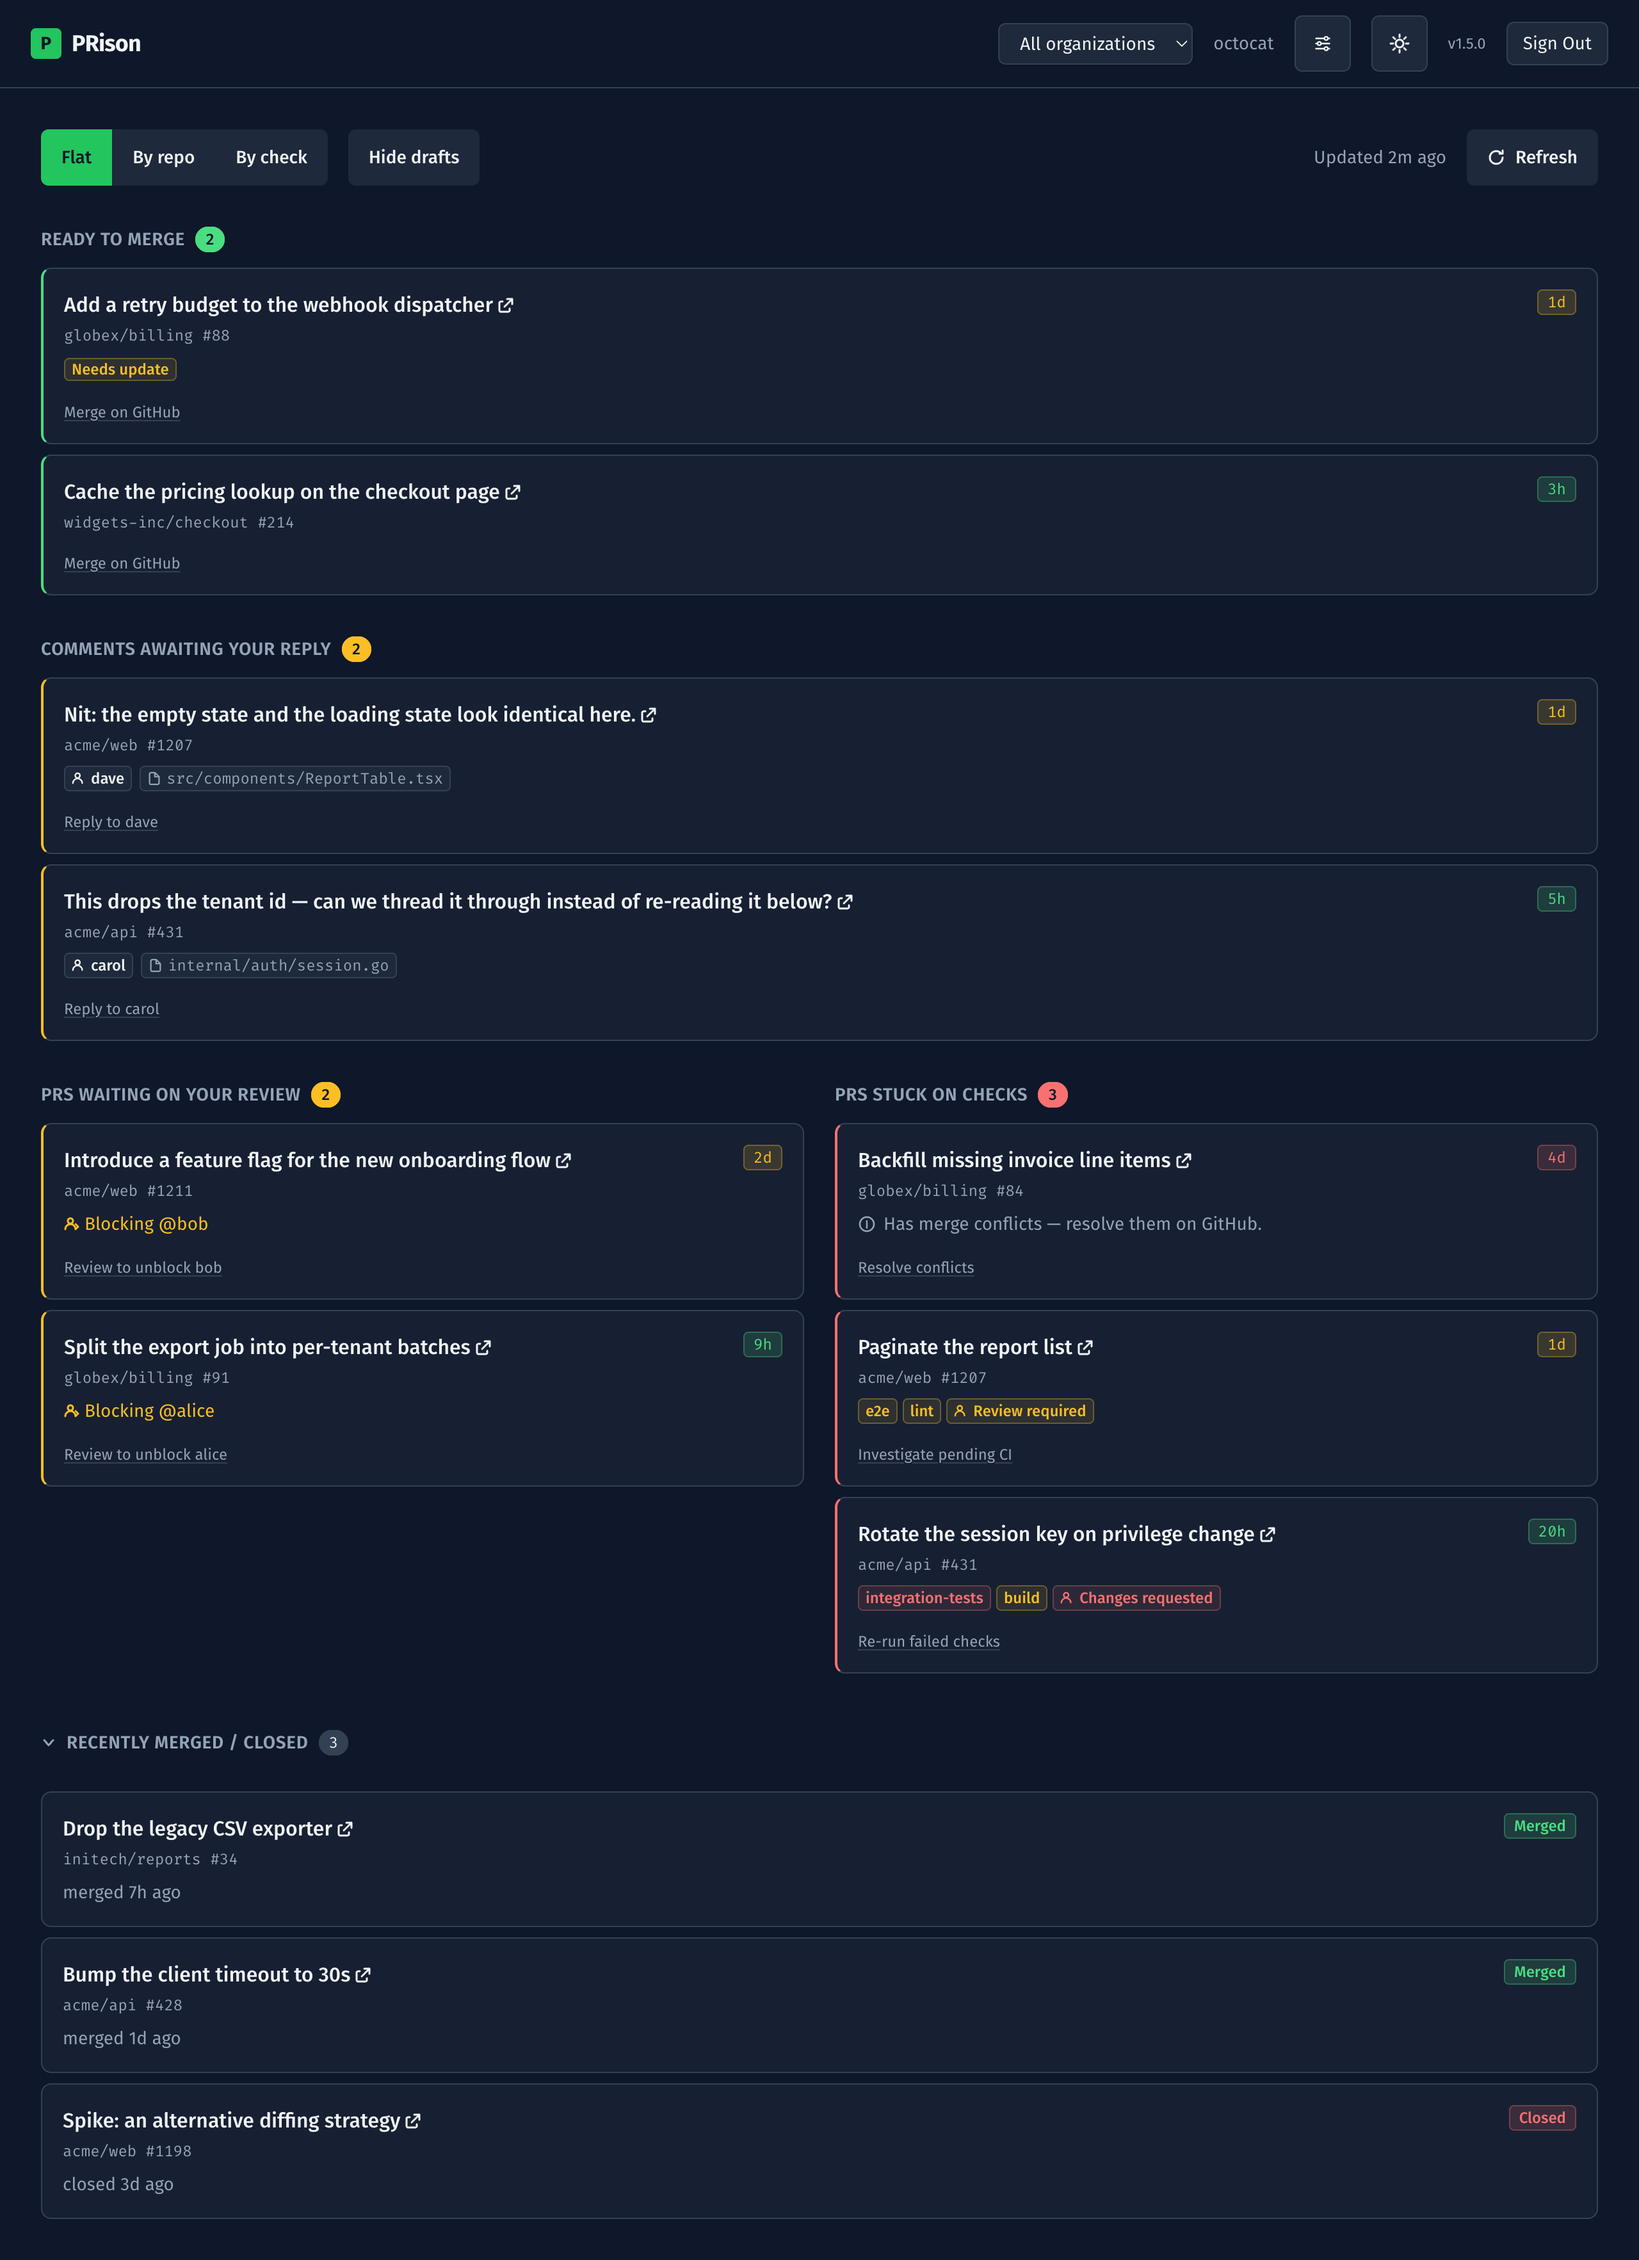
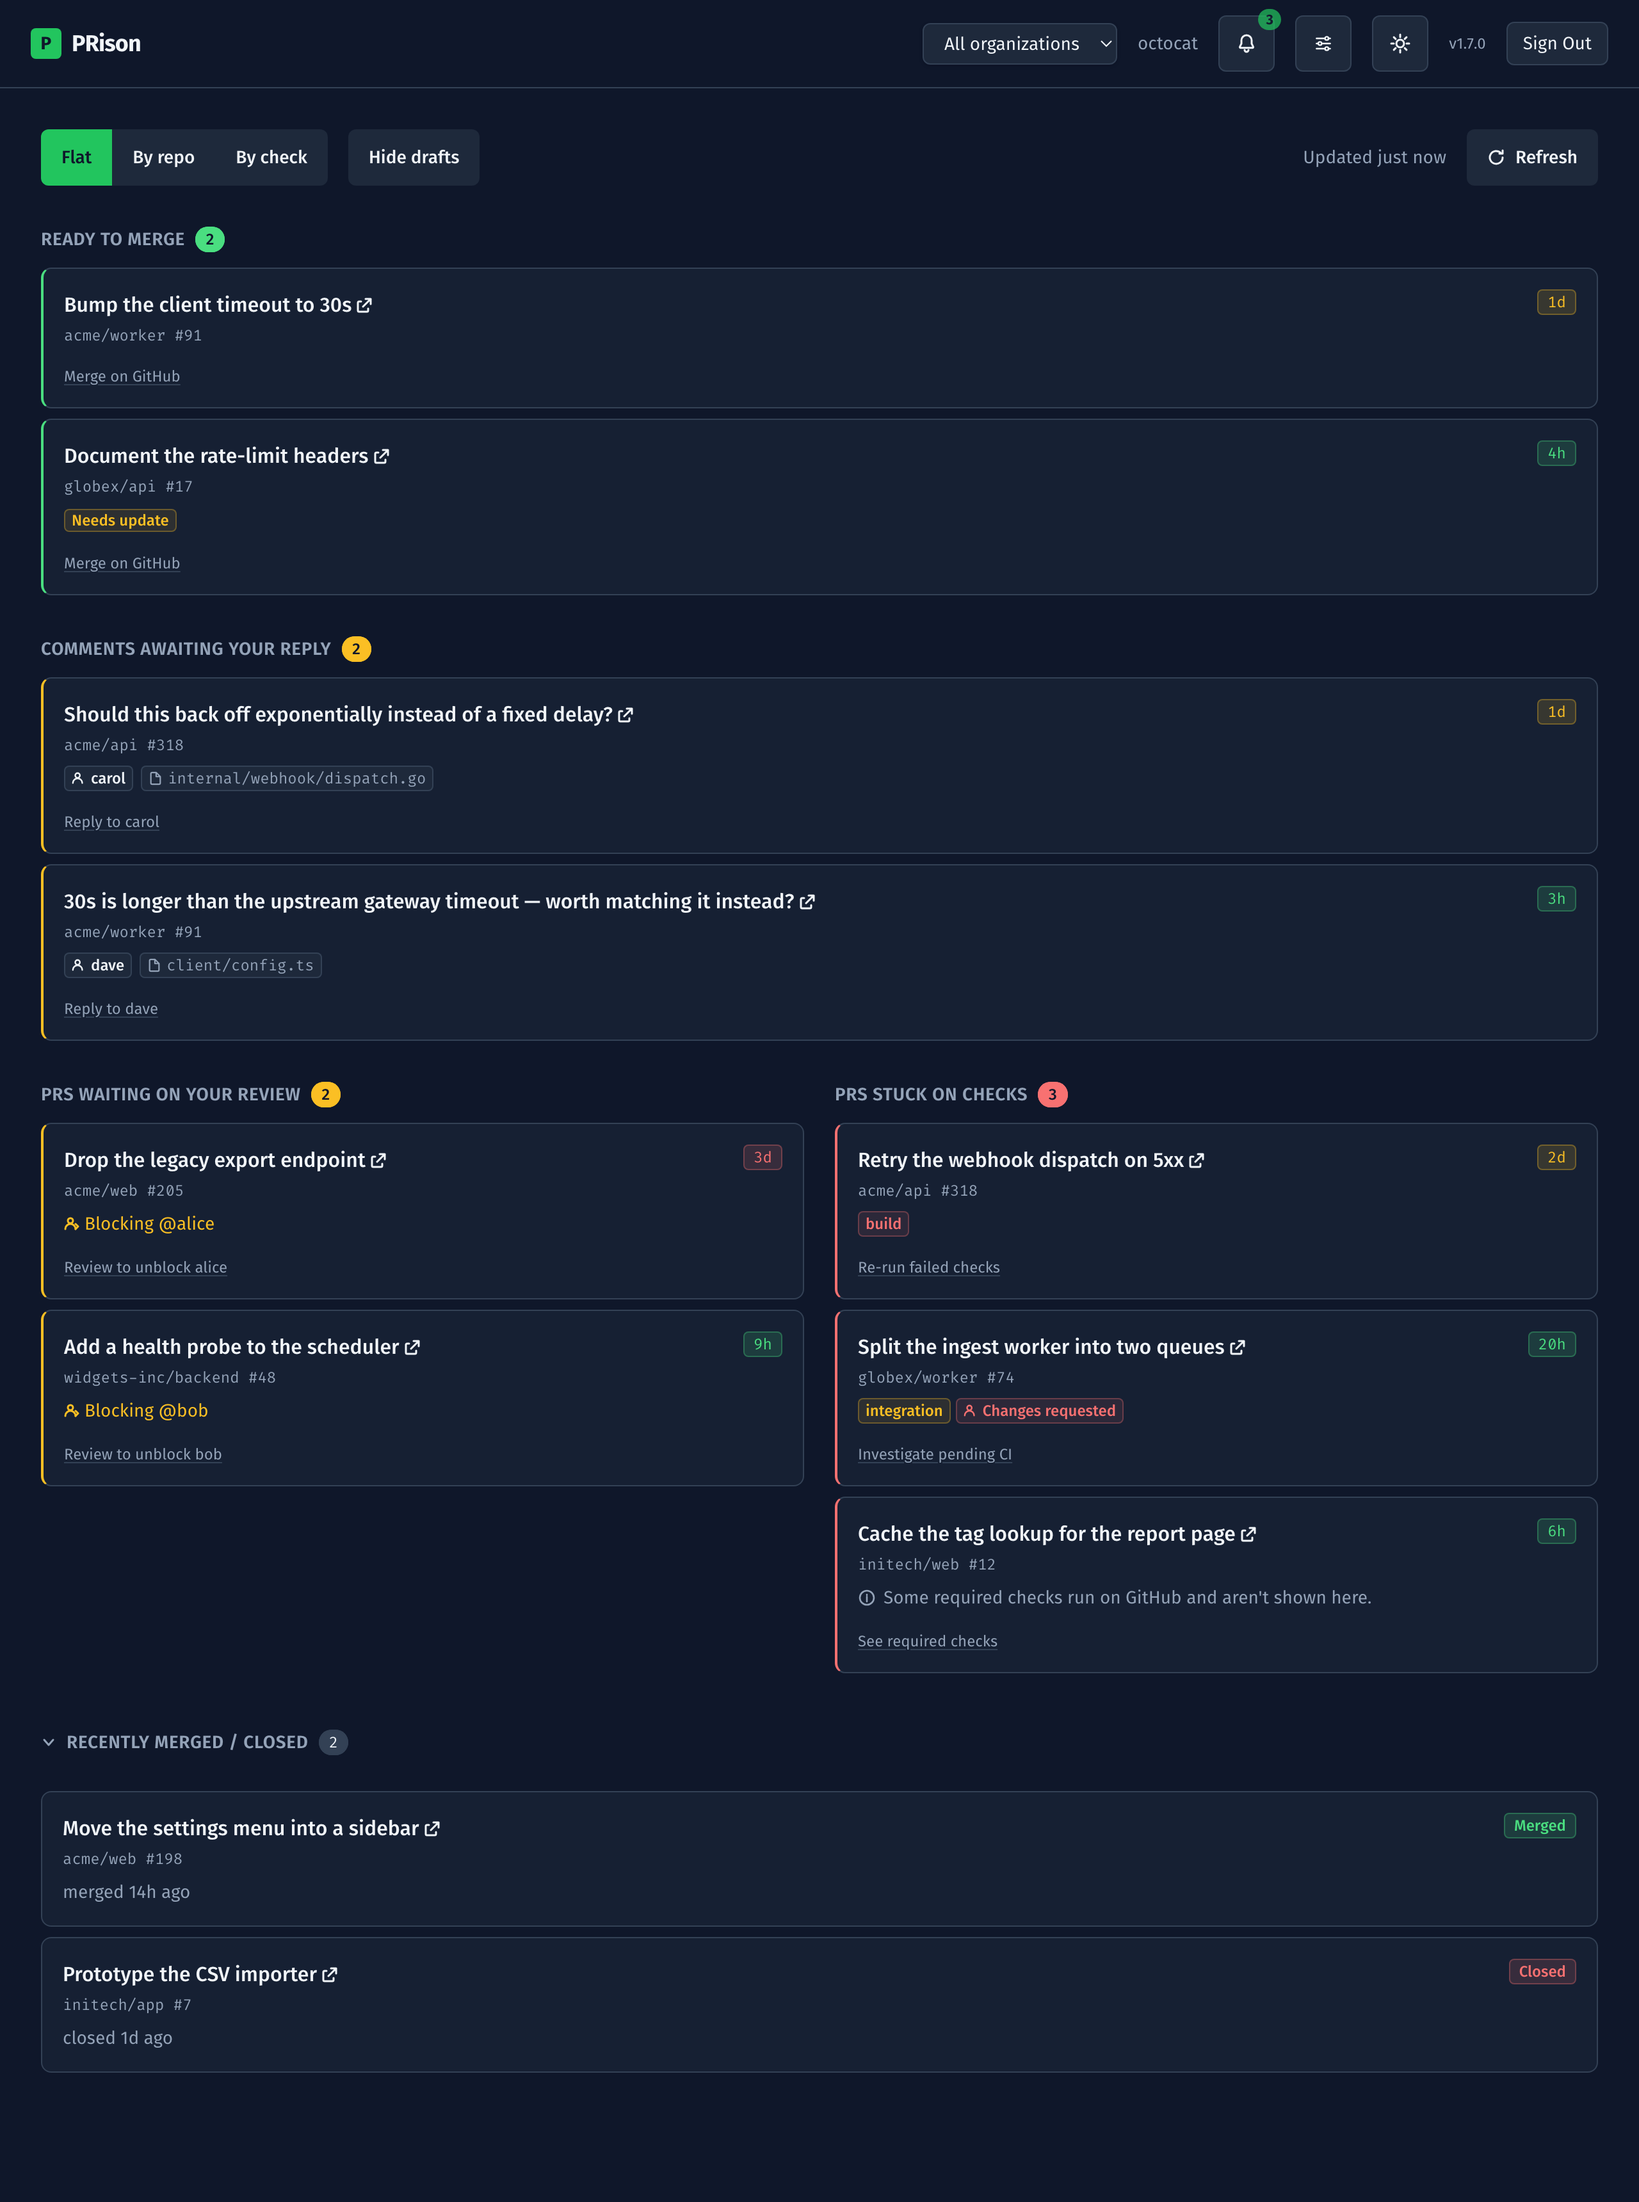
docs: refresh the dashboard screenshot
The shipped image predates the activity bell, the Settings sliders icon, and
the Hide drafts button, so the README showed a header the app no longer has.
Recaptured from the real Dashboard against invented fixtures — every owner,
repo, and login is on the lib/generic-fixtures allowlist — with the history
section expanded so the alt text describes what is actually in frame.

diff --git a/README.md b/README.md
@@ -20,7 +20,7 @@ access. Four lists, oldest first, plus a history section:
   first, so finished work confirms itself. Collapsed by default with a count;
   expands to the latest 15 with **Load more** for the rest.
 
-![The PRison dashboard showing the four PR lists and the recently merged / closed history in dark mode](docs/screenshot.png)
+![The PRison dashboard in dark mode, showing the four PR lists, the header's activity bell carrying three unseen events, and the recently merged / closed history expanded](docs/screenshot.png)
 
 ### Features
 
